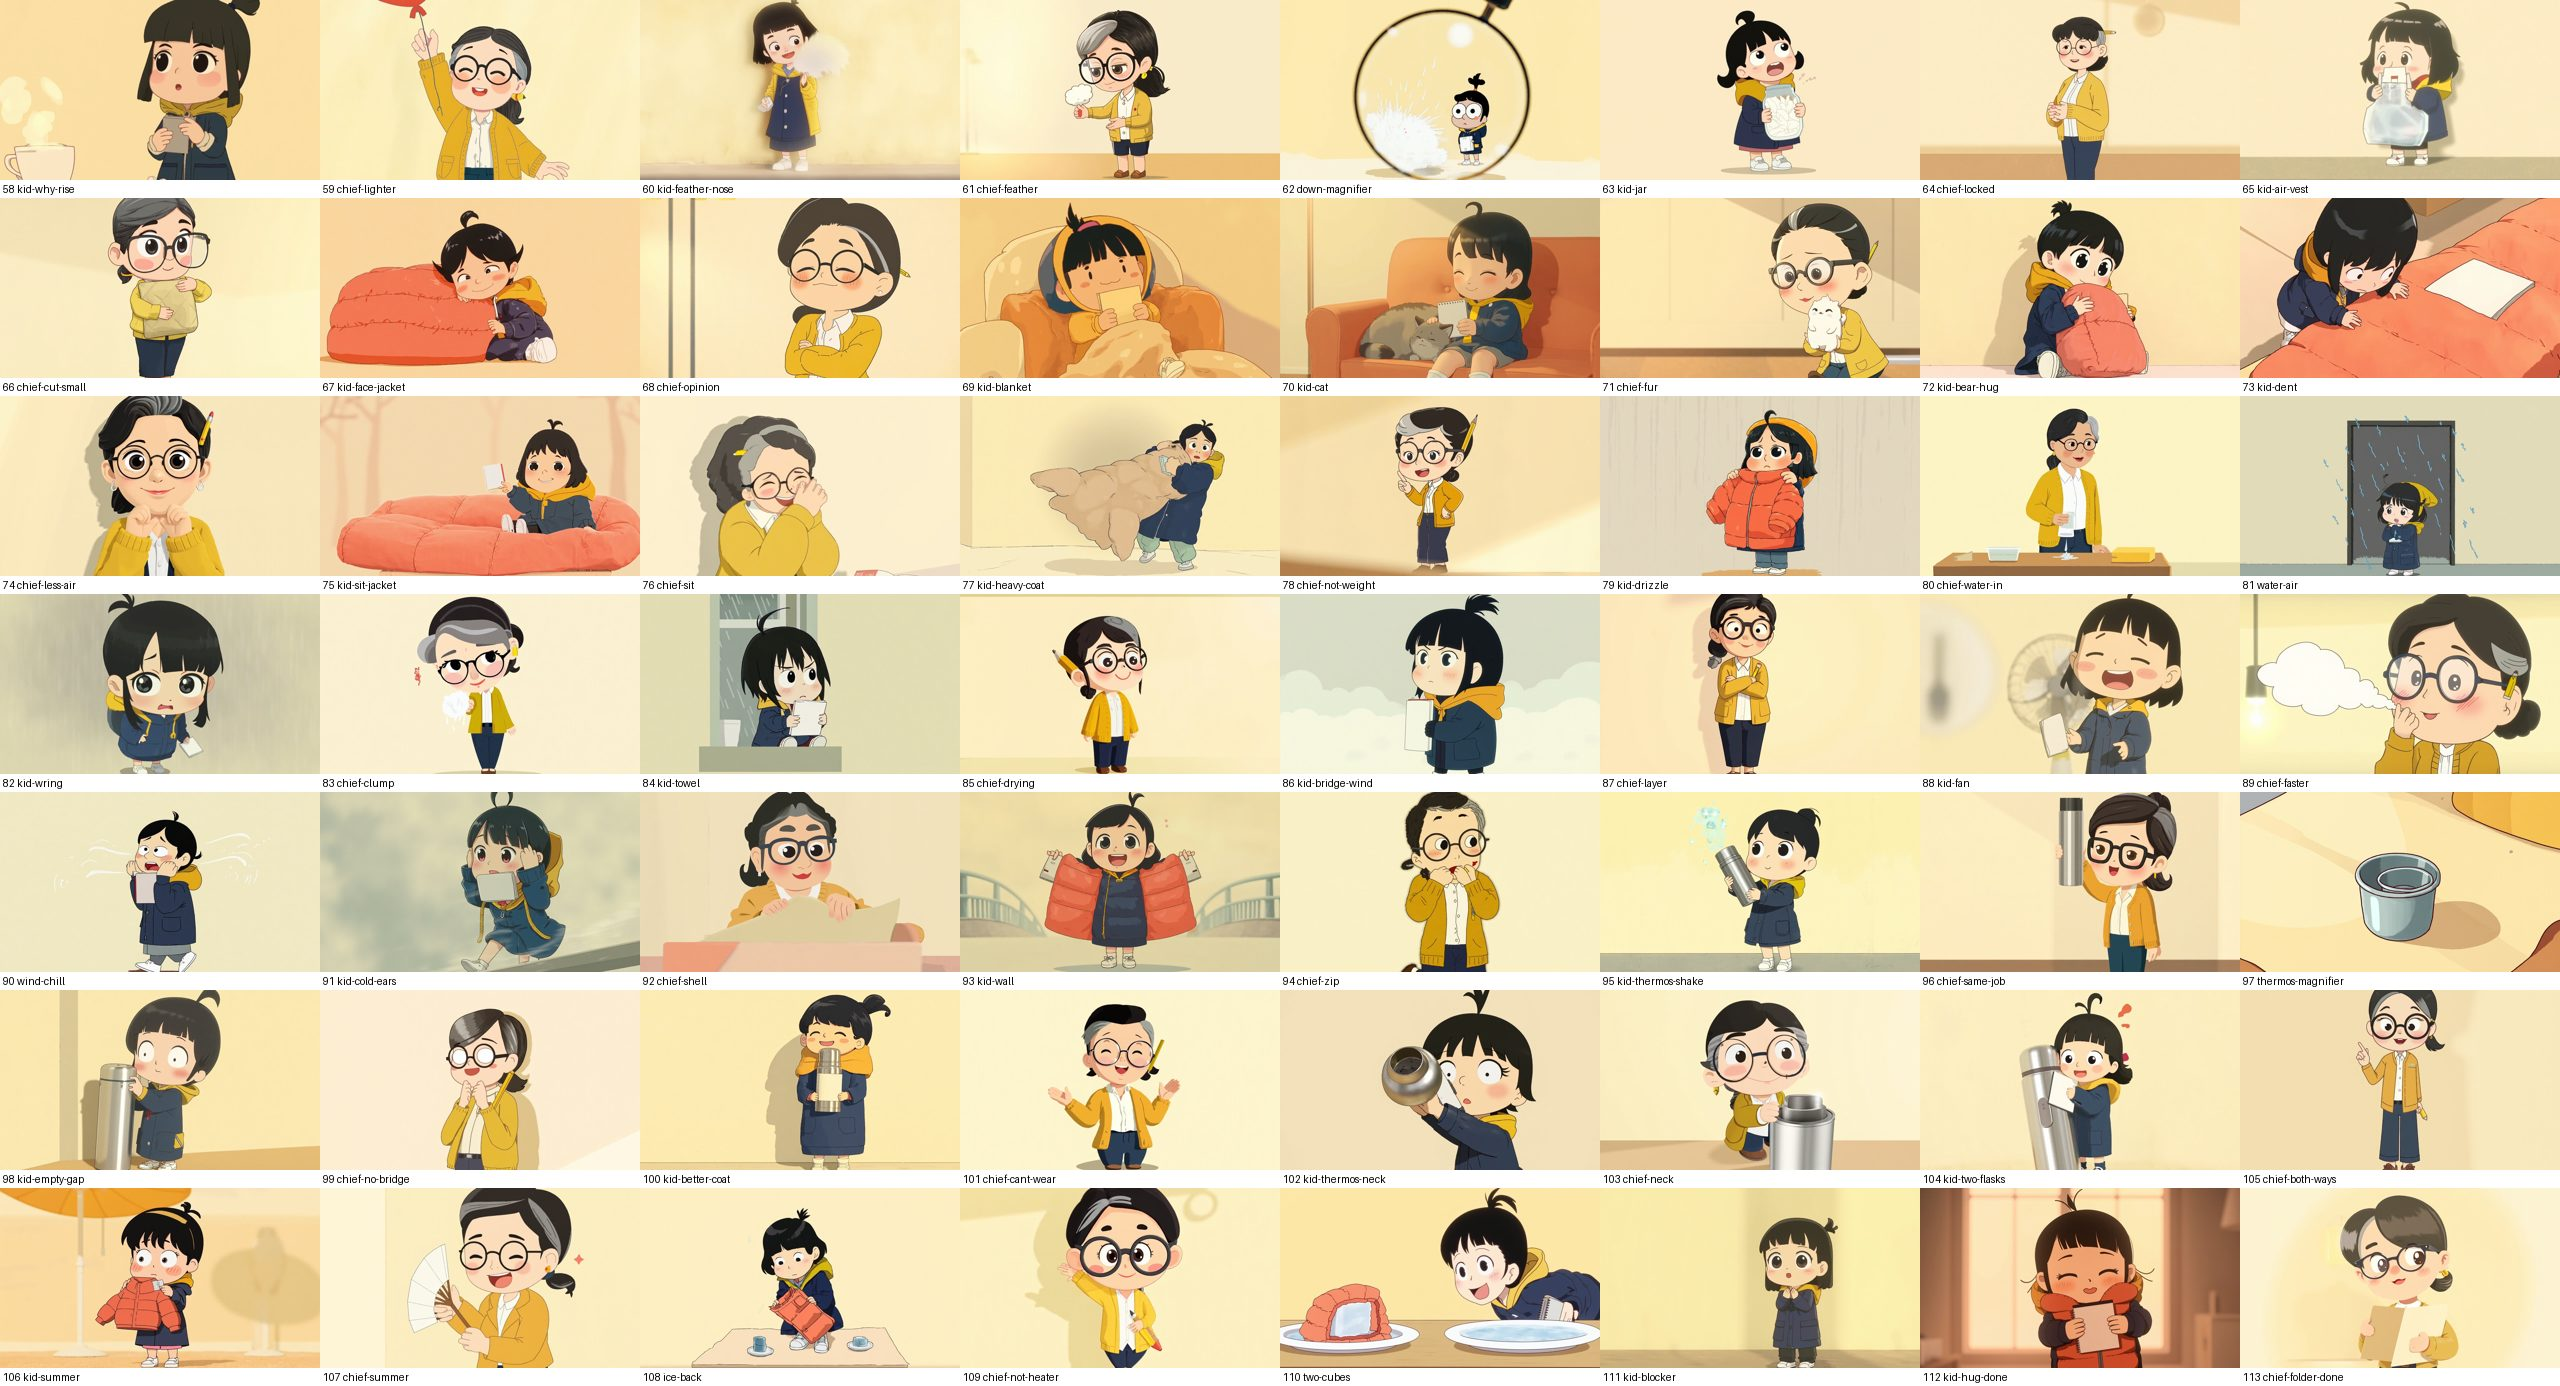
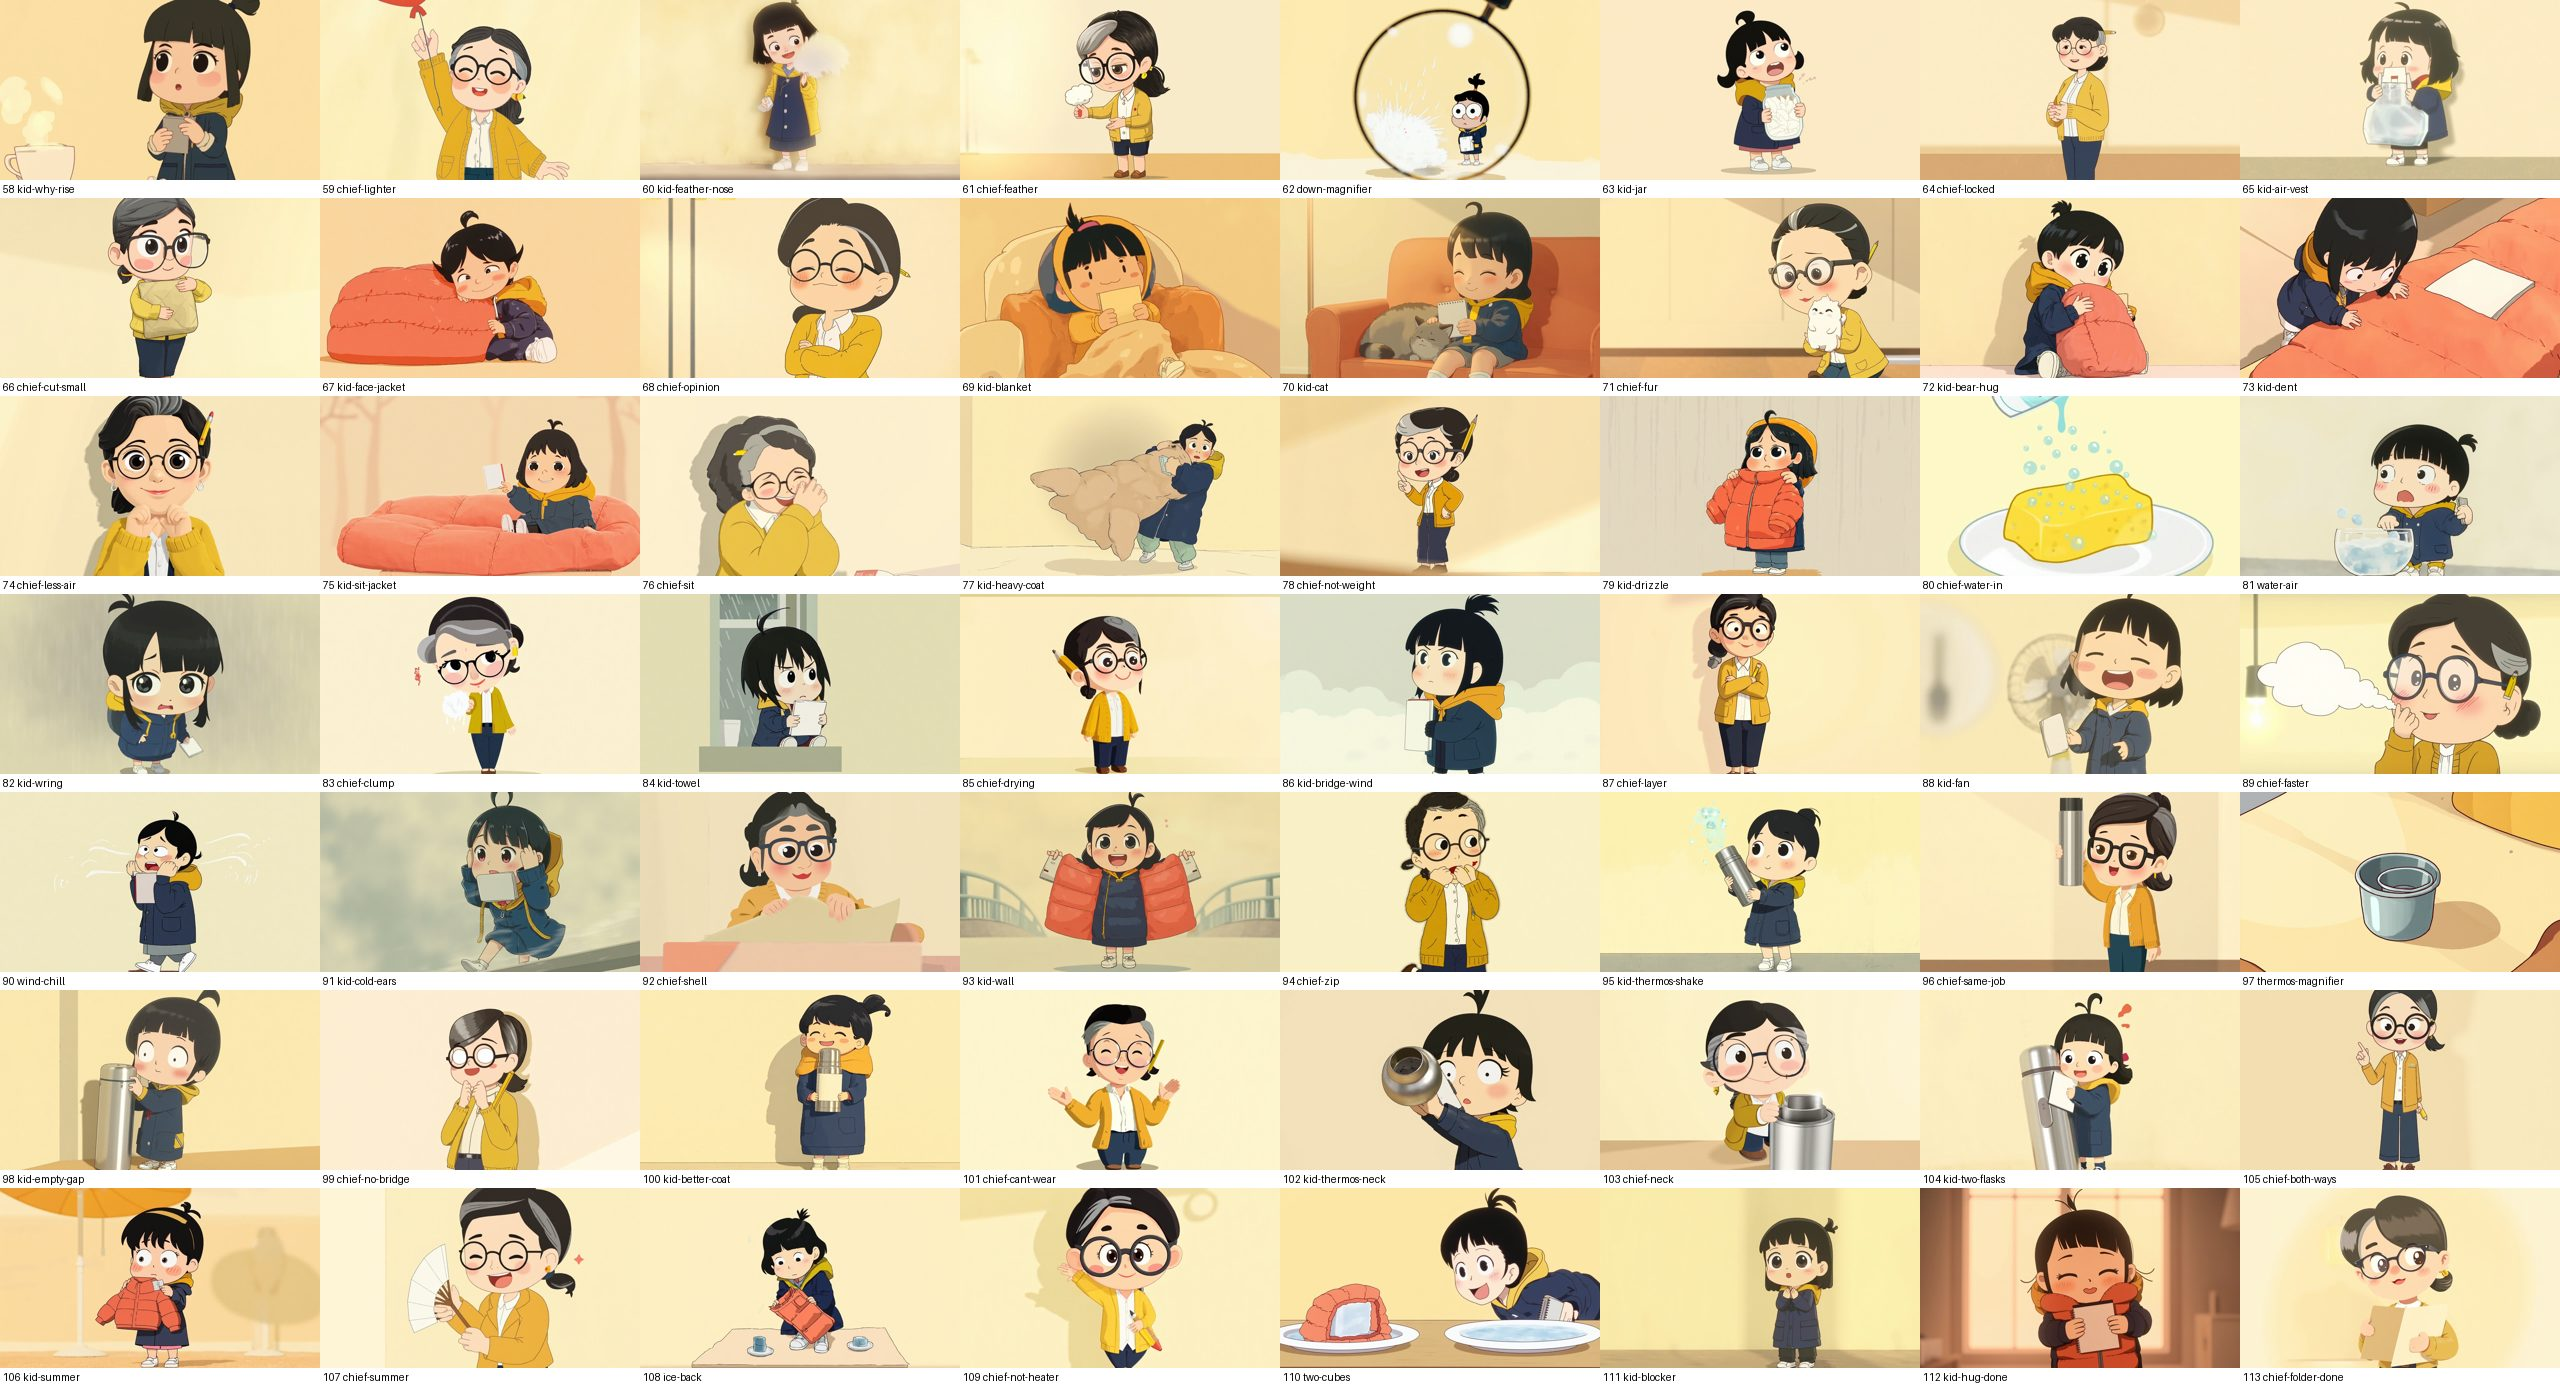
P05: clearer mechanism shots for iron-wood, water-air and chief-water-in
Claude-Session: https://claude.ai/code/session_019ZmEpYzTwJafrPaLRYukag

Changed region(s): [[0.75, 0.2792, 1.0, 0.4343]]

diff --git a/docs/videos/sothatswhy-p05-down-jacket/build_scenes.py b/docs/videos/sothatswhy-p05-down-jacket/build_scenes.py
@@ -149,7 +149,7 @@ kid("kid-doubt", "Head-and-shoulders close-up of the girl frowning doubtfully wi
     k("怎麼可能？摸起來差好多。", "不服氣"))
 chief("chief-not-thermometer", "Waist-up medium shot of the chief holding up her own open hand and looking at it with a wry smile, " + WALL + ", soft daylight",
       c("因為你的手不是溫度計。"), c("手感覺到的，是熱從手上跑走得多快。"))
-scene("iron-wood", "Close-up of a black iron railing bar and a wooden bench plank side by side in a snowy park, the iron bar covered in sparkling white frost, the wooden plank plain brown and dry, flat 2D cartoon with clean dark outlines, soft overcast light",
+scene("iron-wood", "Close-up of a small bare hand resting flat on a black iron railing bar in a snowy park, many small wavy red arrows streaming out of the palm into the iron, a wooden bench blurred in the background, flat 2D cartoon with clean dark outlines, soft overcast light",
      c("鐵把你手上的熱搬走得很快，木頭搬得很慢。", None, "P:iron"))
 scene("steel-wood", "Close-up of one shiny silver metal spoon standing in a mug of hot cocoa on a kitchen table, the whole metal handle glowing orange-red with heat right up to the top, steam rising, soft kitchen light",
      c("鋼鐵傳熱的本事，比木頭快上百倍。", "數字放慢"))
@@ -221,9 +221,9 @@ chief("chief-not-weight", "Head-and-shoulders close-up of the chief shaking one 
       c("重不重，不是重點。"), c("重點是裡面，關住了多少不會動的空氣。", None, "P:heavy"))
 kid("kid-drizzle", "Medium shot of the girl standing in cold drizzle holding " + JACKET + " out with both hands as raindrops darken it, a worried face, soft grey light",
     k("那下雨淋濕了呢？", "擔心"))
-chief("chief-water-in", "Waist-up medium shot of the chief standing behind her desk pouring water from a small clear glass onto a yellow kitchen sponge lying on the desk, watching it soak in, " + WALL + ", soft lamp light",
+scene("chief-water-in", "Close-up of a yellow kitchen sponge on a white plate, water pouring onto it from a small clear glass, many little round air bubbles escaping from the wet sponge, flat 2D cartoon with clean dark outlines, soft lamp light",
       c("濕了，水就跑進那些小空間，"), c("把空氣擠出去。"))
-kid("water-air", "Medium shot of the girl standing in a doorway after the rain, hair dripping and her navy jacket soaked dark, hugging herself and shivering, many small blue wavy arrows flying outward away from her wet shoulders, a plain wall, cool grey light",
+kid("water-air", "Close-up of the girl dipping one bare hand into a glass bowl of cold water with a shocked gasp, her other hand held up in the air relaxed, a plain wall, cool grey light",
      c("水傳熱的本事，大約是空氣的二十幾倍。", "數字放慢"))
 kid("kid-wring", "Head-and-shoulders close-up of the girl with soaking wet hair dripping water onto her shoulders and a grimace, rain falling behind her, soft grey light",
     c("所以衣服一濕，熱就跑得快很多，穿起來就沒那麼暖。", None, "P:wet"))
